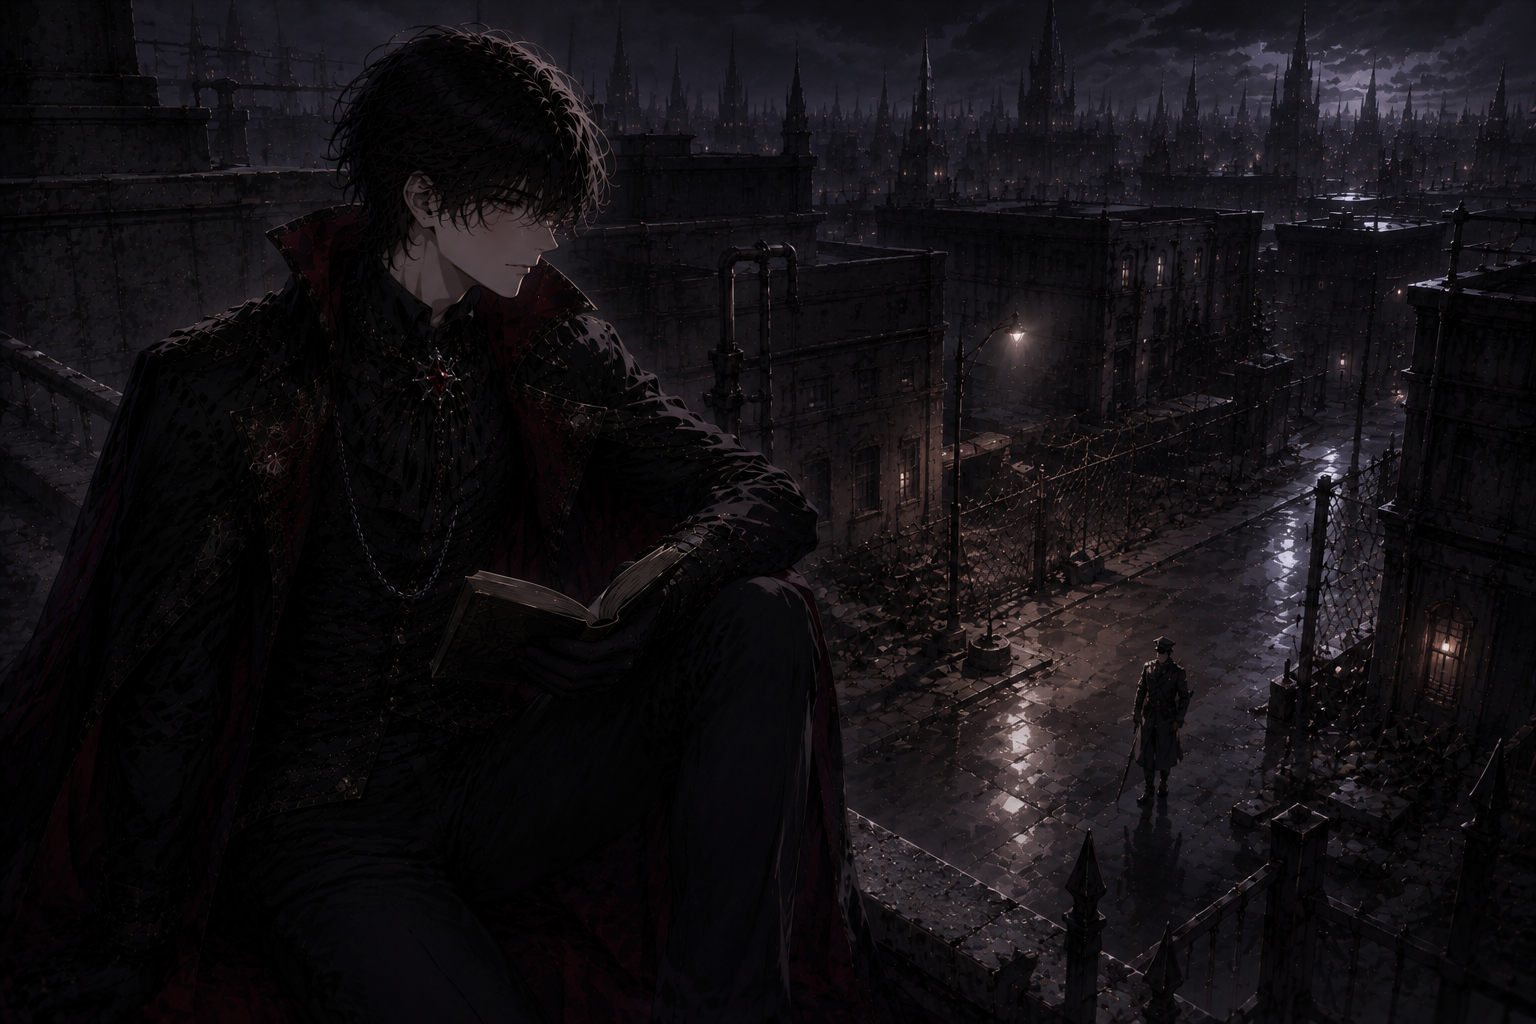
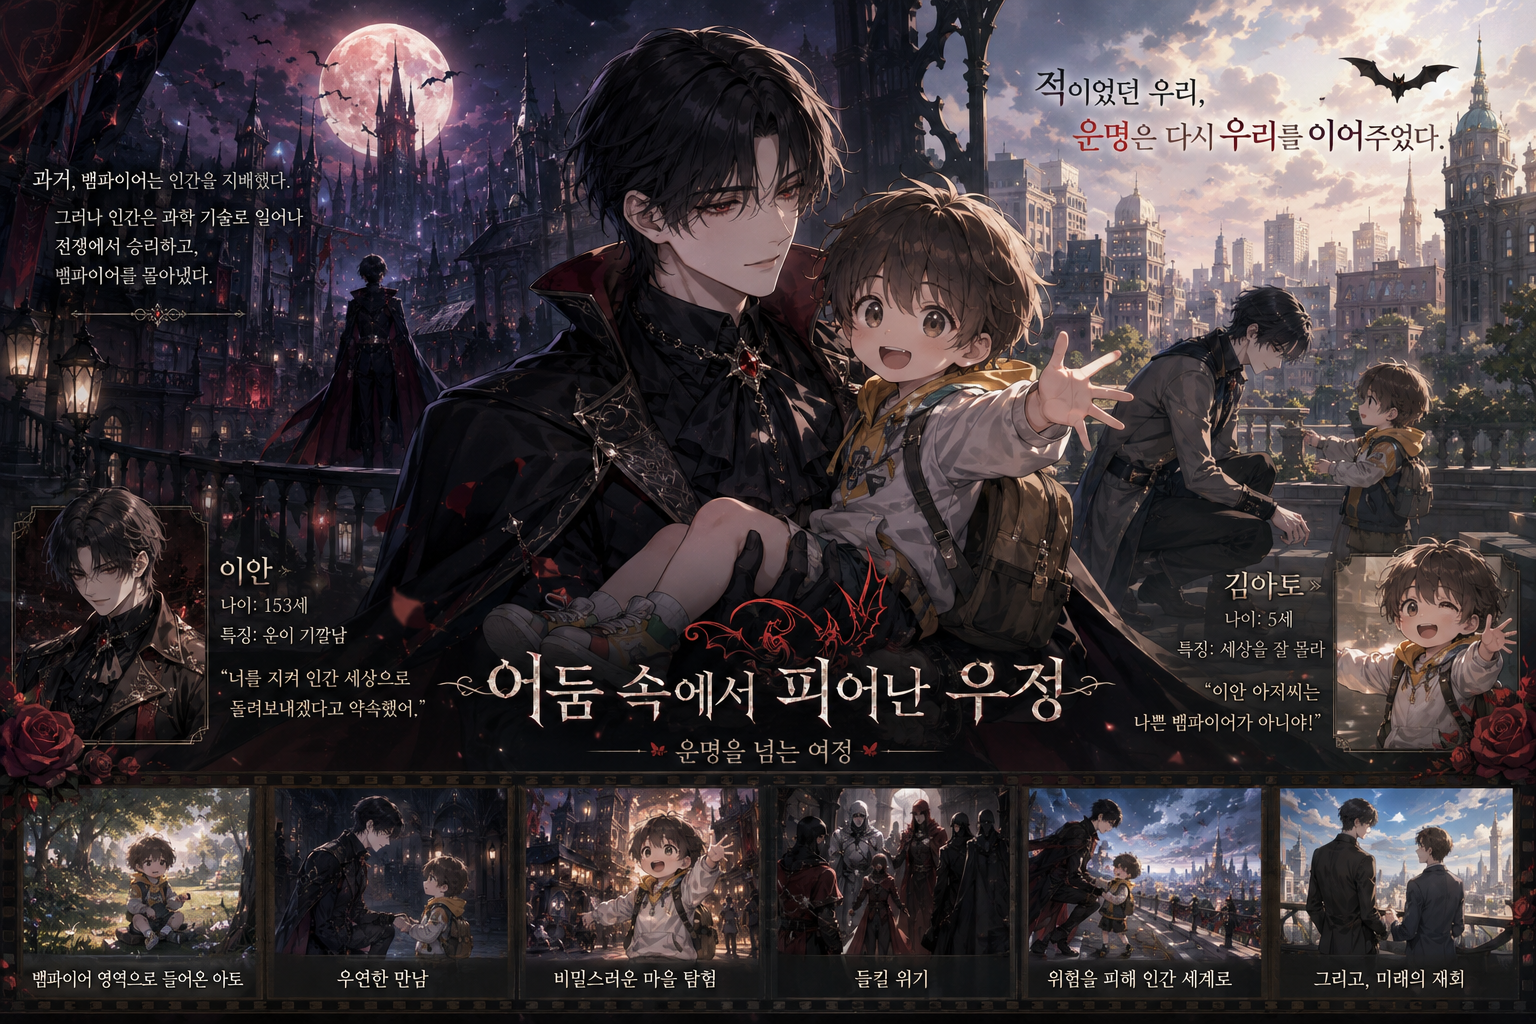
add intro ~ scene3_A png

diff --git a/src/App.jsx b/src/App.jsx
@@ -1,15 +1,20 @@
 import React, { useState } from 'react';
 import './App.css';            
 import './VisualNovelUI.css';   
-import backgroundImage from './assets/bg.png'; 
+import INTRO from './assets/intro.png'; 
+import SCENE1 from './assets/scene1.png'
+import BG from './assets/bg.png';
+import SCENE1_A from './assets/scene1_a.png';
+import SCENE2_D from './assets/scene2_d.png';
+import SCENE2_M from './assets/scene2_m.png';
+import SCENE3 from './assets/scene3.png';
+import SCENE3_P from './assets/scene3_p.png';
+import SCENE3_A from './assets/scene3_a.png'
+import SCENE3_A2 from './assets/scene3_a2.png';
 
-// ==========================================================================
-// 📖 주신 기획서 원본의 글씨, 기호, 줄바꿈을 단 하나도 틀리지 않고 그대로 반영한 데이터
-// ==========================================================================
 const SCENARIO = {
-  // 🌍 세계관 배경 / 오프닝 내레이션 / 타이틀 전 인트로
-  // 🌍 세계관 배경 / 오프닝 내레이션 / 타이틀 전 인트로
   intro: {
+    background: BG,
     chapter: "오프닝",
     location: "세계관 배경 — 인트로",
     name: "내레이션",
@@ -19,6 +24,7 @@ const SCENARIO = {
 
   // 📖 ACT 1 — 침입자 [씬 1 — 이안의 하루]
   scene1: {
+    background : INTRO,
     chapter: "ACT 1 — 침입자",
     location: "뱀파이어 거주 구역 외곽. 허물어져 가는 철조망 근처.",
     name: "이안 (혼잣말)",
@@ -31,6 +37,7 @@ const SCENARIO = {
 
   // ✅ 선택지 1 — A 선택 후 진행
   scene1_A: {
+    background: SCENE1,
     chapter: "ACT 1 — 침입자",
     location: "뱀파이어 거주 구역 외곽. 허물어져 가는 철조망 근처.",
     name: "시스템",
@@ -40,6 +47,7 @@ const SCENARIO = {
 
   // [씬 2 — 조우]
   scene2: {
+    background: SCENE1_A,
     chapter: "ACT 1 — 침입자",
     location: "철조망 근처 풀숲",
     name: "내레이션",
@@ -47,6 +55,7 @@ const SCENARIO = {
     options: [{ text: "다음", nextScene: "scene2_dialogue" }]
   },
   scene2_dialogue: {
+    background : SCENE2_D,
     chapter: "ACT 1 — 침입자",
     location: "철조망 근처 풀숲",
     name: "대화",
@@ -54,6 +63,7 @@ const SCENARIO = {
     options: [{ text: "다음", nextScene: "scene2_monologue" }]
   },
   scene2_monologue: {
+    background : SCENE2_M,
     chapter: "ACT 1 — 침입자",
     location: "철조망 근처 풀숲",
     name: "이안 (혼잣말)",
@@ -63,6 +73,7 @@ const SCENARIO = {
 
   // [씬 3 — 정보 파악]
   scene3: {
+    background : SCENE3,
     chapter: "ACT 1 — 침입자",
     location: "근처 창고",
     name: "대화",
@@ -70,6 +81,7 @@ const SCENARIO = {
     options: [{ text: "이름과 나이를 물어본다", nextScene: "scene3_profile" }]
   },
   scene3_profile: {
+    background : SCENE3_P,
     chapter: "ACT 1 — 침입자",
     location: "근처 창고",
     name: "대화",
@@ -82,15 +94,17 @@ const SCENARIO = {
 
   // ✅ 선택지 2 — A 선택 — 정상 진행
   scene3_A: {
+    background : SCENE3_A,
     chapter: "ACT 1 — 침입자",
     location: "근처 창고",
     name: "시스템",
     text: "이안이 철조망 너머로 데려다줄 경로를 탐색하기 시작한다. 지금은 순찰 시간대라 루트를 골라야 한다.",
-    options: [{ text: "다음 스토리 대기", nextScene: "intro" }] // 💡 추후 연재할 다음 씬 연결부
+    options: [{ text: "다음 스토리 대기", nextScene: "intro" }] 
   },
 
   // ❌ 선택지 2 — B 선택 — 배드엔딩 플래그
   scene3_B_bad_route: {
+    
     chapter: "ACT 1 — 침입자",
     location: "근처 창고",
     name: "대화",
@@ -127,6 +141,7 @@ const SCENARIO = {
   },
   // 📖 ACT 2 — 숨바꼭질 [씬 4 — 세린의 방문]
   scene3_A: {
+    background : SCENE3_A2,
     chapter: "ACT 2 — 숨바꼭질",
     location: "근처 창고",
     name: "대화",
@@ -346,7 +361,7 @@ function App() {
       {/* 배경 이미지 레이어 */}
       <div className="vn-background-layer">
         <img 
-          src={backgroundImage} 
+          src={currentScene.background} 
           className="vn-bg-img" 
           alt="Visual Novel Background" 
         />
